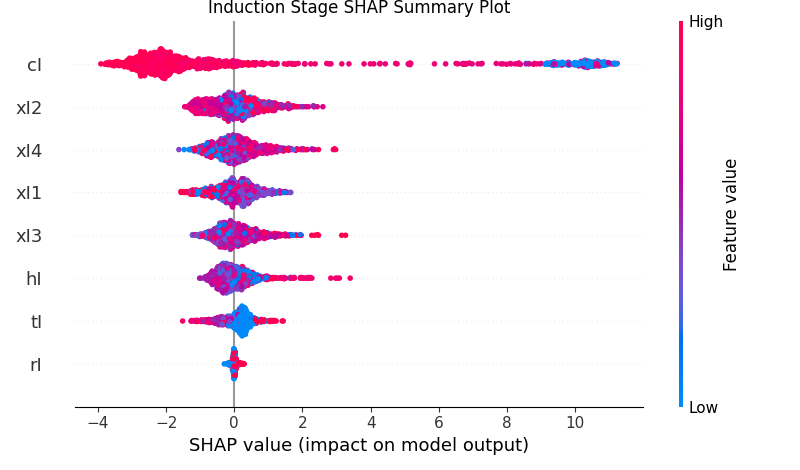
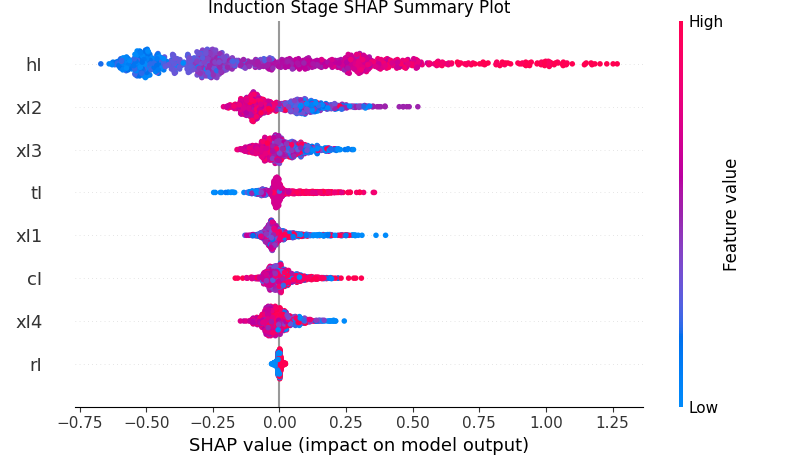
2501060404

diff --git a/Machine-Learning-for-Exposure-Response-Analysis/real_data_E-R_analysis.py b/Machine-Learning-for-Exposure-Response-Analysis/real_data_E-R_analysis.py
@@ -7,13 +7,15 @@ import shap
 import matplotlib.pyplot as plt
 import warnings
 import os
+import optuna
+from sklearn.metrics import accuracy_score
 
 # 경고 메시지 무시
 warnings.filterwarnings(action="ignore", category=UserWarning, module="xgboost")
 
 
 # Weibull 함수 정의
-def weibull_function(cI, scale=3):
+def weibull_function(cI, scale=10):
     return 10 * (cI / scale) ** 2 * np.exp(-((cI / scale) ** 3))
 
 

diff --git a/Machine-Learning-for-Exposure-Response-Analysis/README.md b/Machine-Learning-for-Exposure-Response-Analysis/README.md
@@ -1,0 +1,310 @@
+## Machine Learning for Exposure-Response Analysis:
+
+Methodological Considerations and Confirmation of Their
+Importance via Computational Experimentations
+
+Rashed Harun, Eric Yang, Nastya Kassir, Wenhui Zhang, James Lu
+
+### 요약
+
+- 약물 용량을 결정하는 **노출-반응(E-R) 분석**에 대한 기계 학습(ML) 활용 방법을 제시
+- 데이터에서 편향을 없애고 **정확한 인과 관계**를 도출하기 위한 **좋은 실천 방법**들을 제시함
+  1. **인과 다이어그램**을 사용해 모델에서 어떤 변수를 고려해야 할지 신중하게 결정
+  2. **모델 훈련 데이터**와 **추론 데이터**를 엄격하게 분리해 편향을 피함
+  3. **하이퍼파라미터 튜닝**으로 모델의 신뢰성 향상
+  4. **부트스트랩 샘플링**을 사용해 **추론**의 신뢰 구간을 추정
+- 연구는 시뮬레이션된 데이터셋을 사용하여 이 방법들이 **비선형적**이고 **비단조적**인 E-R 관계에서도 효과적임을 증명함
+
+### 사용되는 기법
+
+- **XGBoost**
+  - **이진 분류** 알고리즘
+  - **유도 모델**, **유지 모델**, **유도에서 유지로의 모델**을 각각 생성하여 **노출-반응 관계**를 분석
+  - 결정 트리
+- **SHAP 분석**
+  - **기계 학습 모델**의 예측에 대한 **설명 가능성**을 높이기 위해 사용되는 기법
+  - **협력적 게임 이론**에 기반하여 변수들이 모델 예측에 미치는 **기여도**를 **정량화**
+  - 각 변수의 **기여도를 측정**하여 예측 결과가 어떻게 이루어졌는지 이해
+- **XGBoost는 예측 모델링을 담당하고, SHAP 분석은 그 예측을 설명 가능하게 만들어줌**
+
+---
+
+### 연구에서 사용하는 주요 변수들의 정의
+
+- **유도 단계 (Induction stage, I)**
+  - **hI**: 건강 상태 (health status)
+  - **xI1, xI2, xI3, xI4**: 공변량 (covariates), 즉 약물 효과에 영향을 미칠 수 있는 변수들
+  - **rI**: 치료 무작위화 변수 (treatment randomization), **rI = 1**이면 활성 치료군, **rI = 0**이면 위약군
+  - **cI**: 유도 단계 시작 시점에서의 교란 변수 (confounding variable)
+  - **tI**: 유도 단계에서의 약물 노출 (drug exposure)
+- **유지 단계 (Maintenance stage, M)**
+  - **hM**: 건강 상태
+  - **xM1, xM2, xM3**: 공변량
+  - **rM**: 치료 무작위화 변수
+  - **cM**: 유지 단계에서의 교란 변수
+  - **tM**: 유지 단계에서의 약물 노출
+- **y1, y2**: 이 변수들은 유도 단계와 유지 단계의 **이진 결과 변수**
+
+### 서론
+
+- 병 -( 유도효과, y1 )→ 나아짐 -( 유지효과, y2 )→ 지속
+- ML의 문제점: 과적합! (AUROC = 1.0)
+  - AUROC: 모델이 양성/음성 얼마나 잘 구분하냐
+    - AUROC = 0.5: 그냥 무작위 예측이랑 동일
+    - AUROC < 0.5: 모델이 오히려 반대로 예측함
+    - 즉, 0.5 < AUROC < 1.0이 적합
+- 해결책 1: **k겹 교차 검증**
+  - 데이터를 **k번** 나누어 훈련 데이터와 검증 데이터를 **교차적으로** 사용하여 모델을 평가
+  - 첫 번째 반복에서 첫 번째 부분을 **검증 데이터**로 사용하고, 나머지 k-1개 부분을 **훈련 데이터**로 사용
+  - 두 번째 반복에서는 두 번째 부분을 **검증 데이터**로 사용하고, 나머지 k-1개 부분을 **훈련 데이터**로 사용
+  - 이 과정을 **k번 반복**합니다. 각 번마다 **검증 데이터**가 바뀌고, **훈련 데이터**는 그에 맞춰 바뀝니다.
+  - **성능 평가**
+    - 각 반복에서 모델의 성능을 평가한 후, **k번의 성능 평가**를 평균 내어 최종 성능을 계산
+    - 이렇게 함으로써 데이터의 **모든 부분**이 검증 데이터로 사용되어 모델의 **일반화 능력**을 평가 가능
+- 해결책 2: **하이퍼파라미터 튜닝**
+
+### **Hyperopt**를 사용해 **XGBoost**라는 모델의 **최고 성능** 찾기!
+
+- **Hyperopt**
+  - **최적화** 도구
+  - 모델의 **하이퍼파라미터**를 **최고로 맞추는** 방법을 찾아줌
+- 예를 들어, **XGBoost**라는 모델에서 **어떤 설정이 가장 좋은지** 찾는 거임
+  - 예: **25번**의 **시도**를 하면서 여러 설정을 시도해보고, 가장 성능이 좋은 설정을 찾는 거임
+- **Hyperopt가 사용하는 기법**
+  - **5-겹 교차 검증 (5-fold cross-validation)**
+  - **25번**의 **시도**
+  - **SHAP 분석**
+
+### **샘플링 방법에 따른 신뢰 구간 차이**
+
+- **샘플링 방법**에 따라 **신뢰 구간**이 다르게 나타날 수 있다.
+- 복원 샘플링은 **tI**와 **cI**에 대한 **95% 신뢰 구간**을 더 정확하게 추정할 수 있다.
+  - **비복원 샘플링**에서 **10:90** 비율로 훈련/테스트 데이터셋을 나눈 결과, **tI**와 **cI**의 **기준 진리**와 매우 차이가 나며, 신뢰 구간이 매우 넓음
+  - **비복원 샘플링**에서 **90:10** 비율로 데이터를 나누었을 때, 신뢰 구간이 지나치게 좁고 비현실적인 결과를 보임
+  - **복원 샘플링**을 사용한 결과가 **기준 진리**에 더 근접했으며, **신뢰 구간**도 더 현실적인 범위에 포함됨
+- 즉, **복원 샘플링**을 써야 함
+
+### **부트스트랩을 이용한 SHAP 값 추정**
+
+- **부트스트랩 샘플링**을 사용하여 **SHAP 값**에 대한 **95% 신뢰 구간**을 추정하면 **불확실성**을 더 정확하게 추정 가능
+  - **부트스트랩 샘플링**: 데이터를 **복원하여 반복적으로 샘플을 뽑는** 방법
+    - 예: 데이터셋 [1, 2, 3, 4, 5] → 부트스트랩 샘플링 예시 [3, 1, 5, 5, 2]
+- **부트스트랩 의존도 플롯**은 **설명 변수**와 **반응 변수** 간의 **비선형적 함수적 관계**를 시각적으로 보여줌
+  - 각각의 **SHAP 값**에 대한 **신뢰 구간**도 함께 표현됨
+- **XGBoost 모델**은 **비선형 E-R 관계**와 **교란 관계**를 잘 추정 가능 → **정확한 예측**
+- **유도 모델**과 **유지 모델**에서의 **SHAP 의존도 플롯 → 불확실성** 측정 가능
+
+### ML 모델의 장점과 한계
+
+- **비선형 관계**가 있을 때 매우 잘 작동
+- **E-R 분석**에 **ML 모델**과 **SHAP 값**을 사용하는 방법은 아직 초기 단계 (잠재적 문제점 우려)
+  - **SHAP 분석**은 **out-of-sample 데이터**에서만 수행해야 함
+  - **하이퍼파라미터 튜닝**을 통해 **모델 신뢰성**을 확인해야 함
+  - **신뢰 구간**을 **복원 샘플링**을 통해 **현실적으로 추정**해야 함
+
+---
+
+## Machine Learning for Exposure-Response Analysis:
+
+Methodological Considerations and Confirmation of Their
+Importance via Computational Experimentations (Appendix 정리/요약)
+
+### 부록: 각 파트의 핵심 목적
+
+- **부록 A1**: 데이터 생성 과정을 설명 (실험의 신뢰성에 대한 설명)
+- **부록 A2~A4**: 변수 정의 및 마진 효과 계산 방법을 통해 모델 성능을 검증하는 방법
+
+### 참고: 연구에서 사용하는 주요 변수들의 정의
+
+- **유도 단계 (Induction stage, I)**
+  - **hI**: 건강 상태 (health status)
+  - **xI1, xI2, xI3, xI4**: 공변량 (covariates)
+    - 약물 효과에 영향을 미칠 수 있는 변수들
+    - 나이, 성별 등
+  - **rI**: 치료 무작위화 변수 (treatment randomization)
+    - **rI = 1**이면 활성 치료군, **rI = 0**이면 위약군
+  - **cI**: 유도 단계 시작 시점에서의 교란 변수 (confounding variable)
+  - **tI**: 유도 단계에서의 약물 노출 (drug exposure)
+- **유지 단계 (Maintenance stage, M)**
+  - **hM**: 건강 상태
+  - **xM1, xM2, xM3**: 공변량 (위와 마찬가지)
+  - **rM**: 치료 무작위화 변수
+  - **cM**: 유지 단계에서의 교란 변수
+  - **tM**: 유지 단계에서의 약물 노출
+- **y1, y2**: 이 변수들은 유도 단계와 유지 단계의 **이진 결과 변수**
+
+### 부록 A1: 데이터 생성 과정
+
+- **합성 데이터셋**을 어떻게 생성했는지에 대해 설명하고 있습니다.
+  - **합성 데이터:** 실험적인 데이터로, 실제 데이터 대신 모델을 테스트하거나 분석할 때 사용
+
+![image.png](https://prod-files-secure.s3.us-west-2.amazonaws.com/29de5227-9524-4f28-844e-e4af0fbd3348/417108da-17bb-434d-a0bc-a4a6d16ef989/image.png)
+
+- **다변량 정규 분포**에서 샘플링
+  - **무작위 변수들**을 설정하고, 그 후 데이터 변환을 통해 **결과**를 생성
+  - **HI**, **XI1**, **XI2**, **XI3**, **XI4**, **CI**, **CM**, **TI**, **TM** 등은 **무작위 변수**
+- **변수 샘플링**
+  - 각 환자에 대해 **9차원 벡터**가 샘플링
+  - 벡터는 **다변량 정규 분포**에서 생성
+  - 이 과정에서 일부 변수 간의 **상관관계**를 명시적으로 설정 가능
+- **데이터 = 평균 벡터(μ) × 공분산 행렬(Σ)**
+  - 평균 벡터(μ): 각 변수들의 **평균값**
+  - 공분산 행렬(Σ): 변수들 간의 **상관 관계**
+    - XI1과 XI2의 행렬 값이 -0.1 → 두 변수는 서로 약간의 부정적 관계
+  - **무작위성**
+    - 데이터를 생성할 때, **평균값 근처에서 무작위로 값을 뽑음**
+    - 예를 들어, XI1의 평균값이 5라고 할 때, **샘플링된 값**은 4.8, 5.1, 5.3처럼 **조금씩 다른 값**이 나옴
+    - 이때, 상관관계 때문에 XI2 값도 함께 영향을 받음
+      - 예: XI1이 5.3으로 커지면, XI2는 약간 작아지는 값을 무작위로 뽑게 됨
+
+### 부록 A2: 유도 단계의 정의
+
+- **환자 데이터**를 생성하는 과정에서, **각 변수**가 어떻게 정의되는지 설명
+  - **hI**: 건강 상태 (health status)
+  - **xI1, xI2, xI3, xI4**: 공변량 (covariates), 즉 약물 효과에 영향을 미칠 수 있는 변수들
+    - 예: **나이, 성별** 등
+    - 이때, **xI = ln(XI)**와 \***\*같이 **로그\*\* 값 사용
+      - 로그 변환 하는 이유
+        - 대부분 **작은 값**에 몰려 있고, 몇몇 값은 **매우 큰 값**을 가질 때, 데이터가 **비대칭적**일 수 있으므로 **왜곡된 분포**를 더 **대칭적**으로 바꾸기 위함
+  - **cI**: 유도 단계 시작 시점에서의 교란 변수 (confounding variable)
+    - **cI**도 마찬가지로 **ln(CI)**로 **로그** 값 사용
+  - **rI**: 치료 무작위화 변수 (treatment randomization)
+    - **rI = 1**이면 활성 치료군, **rI = 0**이면 위약군
+    - **rI = Bernoulli(0.5)**
+      - **50% 확률**로 **치료군**과 **위약군**에 **랜덤으로 배정**된다는 뜻
+  - **tI**: 유도 단계에서의 약물 노출 (drug exposure)
+    - **tI**도 마찬가지로 **ln(TI)**로 **로그** 값 사용
+- **유도 단계**에서 **y1**(0 or 1)은 어떻게 계산될까?
+  - y1의 값은 잠재 변수 **hM**에 의해 결정
+  - **hM**은 유도 단계 종료 시 환자의 **건강 상태**를 나타냄
+  - **Sigmoid 함수**
+    $$
+    \sigma(x) = \frac{1}{1 + e^{-x}}
+    $$
+    - **hM** 값을 **긍정적인 결과의 확률**로 변환 → **환자가 긍정적인 결과를 얻을 확률**을 계산
+- **Weibull 함수**
+  $$
+  W(x) = 10 \left( \frac{x}{3} \right)^2 e^{-\left( \frac{x}{3} \right)^3}
+  $$
+  - **x**는 **cI** 값이 들어갈 자리
+  - 교란 변수 **cI**가 건강 상태 **hM**에 미치는 **비선형적 영향**을 나타내는 데 사용되는 함수
+    - **Weibull 분포**는 **비선형적 관계**를 잘 표현 가능
+    - **변수**가 일정 범위 내에서는 빠르게 변하다가, **다른 범위**에서는 **변화가 점차 감소**하는 형태를 모델링하기 적합
+- **Hill 함수**
+  $$
+  Hill(x) = \frac{E_{max}}{1 + \left( \frac{2}{x} \right)^2}
+  $$
+  - **E_max**는 **최대 반응값**을 나타내며, 여기서는 3으로 설정됨
+  - **x**는 **약물 노출(tI)**
+  - **Hill 계수**는 **반응의 경사도**를 결정
+    - 여기서는 2로 설정되어 **약물 농도가 증가할수록 반응이 더 급격하게 증가**하도록 만듦
+      - **k_m** = 2는 반응이 절반에 도달하는 약물 농도를 나타냄
+        - 이 값은 x 값에 대한 포화가 시작되는 지점을 설정함
+- **유도 단계**에서 **종속 변수**는 어떻게 정의될까?
+  - 주어진 **hM** 값에 따라 환자의 **y1**이 결정되는 과정
+  - **hM의 정의**
+    $$
+    hM := hI + W(cI) + Hill(tI | Emax = 3) - 1
+    $$
+    - **hI**: **초기 건강 상태**로, 유도 단계 이전에 설정된 값
+    - **W(cI)**: **Weibull 함수**를 통해 정의된 **cI**(교란 변수)가 **hM**에 미치는 비선형적 영향을 나타냄
+    - **Hill(tI∣Emax=3)**: **약물 노출 tI**가 **hM**에 미치는 **포화 효과**를 나타내는 **Hill 함수**
+      - **E_max**는 최대 반응값 (여기서는 3으로 설정됨)
+    - 마지막에 **1**을 빼는 이유는 **건강 상태의 지속적인 저하**를 나타냄
+      - 이는 시간이 지남에 따라 **환자의 건강 상태가 나빠지는** 경향을 반영
+  - **y1의 정의**
+    $$
+    y1 := \text{Bernoulli}(\sigma(hM))
+    $$
+    - **y1:** 환자가 유도 단계에서 **긍정적인 결과를 얻었는지 여부** (**0 or 1**)
+    - **Bernoulli** 함수는 **σ(hM)** 확률을 기반으로 하여, **hM** 값에 따라 **긍정적인 결과**(1) 또는 **부정적인 결과**(0)를 생성
+    - **σ(hM)**는 **Sigmoid 함수**를 통해 **hM** 값을 **확률**로 변환
+      - 이 확률 값은 **환자가 긍정적인 결과를 얻을 확률**을 의미
+
+### 부록 A3: 유지 단계에서의 정의
+
+- **유지 단계**에서 사용되는 **데이터셋**의 생성 과정과 **변수 정의**에 대해 설명
+  - 유지 단계는 **유도 단계에서 치료를 받은 환자들**에 대해서만 데이터를 생성
+    - 이 연구에서는 943명
+- **주요 변수들의 정의**
+
+  - **건강 상태 (hM)**
+    - **유도 단계에서의 건강 상태**가 그대로 **유지 단계의 시작 상태**
+  - **xM1, xM2, xM3**
+
+    - **유도 단계 변수 xI1, xI2, xI3**와 동일하지만, 여기에 **가우시안 잡음**(평균 0, 표준편차 0.01)을 추가하여 생성
+
+      - 데이터에 **약간의 무작위성을 추가**하여 현실적인 변화를 모방하기 위함
+        $$
+        xM1 := xI1 + N(0, 0.01)\\
+        xM2 := xI2 + N(0, 0.01)\\
+        xM3 := xI3 + N(0, 0.01)
+        $$
+
+      $$
+
+  - **cM, rM, tM**
+    - **유도 단계의 변수**들인 **cI, rI, tI**와 비슷하게 정의
+      - **cM**은 **유도 단계의 교란 변수 cI**와 비슷한 방식으로 설정
+      - **rM**은 치료군(1)과 위약군(0)을 정의하는 **Bernoulli 분포**와 비슷한 방식으로 설정
+      - **tM**은 **유도 단계의 약물 노출 변수 tI**와 유사하게 설정
+        $$
+        cM := \ln(CM)\\rM := \text{Bernoulli}(0.5)
+        \\tM := \begin{cases}
+        \ln(TM), & rM = 1 \\
+        0, & \text{otherwise}
+        \end{cases}
+        $$
+
+- **hF**와 **y2**의 수식적 표현
+  - 두 변수의 정의
+    - **hF**: 유지 단계에서의 건강 상태
+    - **y2**: 유지 단계에서 환자가 긍정적인 결과(예: 치료 효과)를 얻었는지 여부를 나타내는 이진 변수 (0 or 1)
+  - **hF**의 수식적 표현
+    $$
+    hF := hM + W(cM) + Hill(tM | Emax = 2) - 1
+    $$
+    - **유도 단계에서의 건강 상태**와 동일하게 설정
+  - **y2**의 수식적 표현
+    $$
+    y2 := \text{Bernoulli}(\sigma(hF))
+    $$
+    - **유도 단계에서의 y1**과 동일하게 설정
+
+### 부록 A4: 설명 변수의 마진 효과
+
+- **기댓값을 기준으로 한 마진 효과**를 정의하고, 이를 구하는 방법을 설명함
+- **마진 효과**
+  - **어떤 변수의 변화가 결과에 미치는 영향**을 나타내는 개념
+  - 하나의 변수가 변화할 때, 최종 결과에 얼마나 영향을 미치는지 나타냄
+  - 예: 편미분, 기울기(계수) 등
+- **인과 다이어그램**
+  - **변수들 간의 의존 관계**를 시각적으로 나타내는 방법
+  - 어떤 변수들이 결과 변수에 영향을 미치는지 이해하고, 분석에 포함하거나 제외해야 할 변수들을 결정할 수 있음
+- 연구에서 사용되는 세 가지 **머신러닝 모델**
+  - **유도 모델**
+    - **유도 단계**의 변수들(xI1, xI2, xI3, xI4, cI)과 **약물 노출**(tI)을 사용하여 **y1**을 예측
+  - **유지 모델**
+    - **유지 단계**의 변수들(xM1, xM2, xM3, cM)과 **약물 노출**(tM)을 사용하여 **y2**를 예측
+  - **유지-유도 모델**
+    - **유도 단계** 변수들과 **약물 노출**(tI)을 사용하여 **y2**(**유지 단계에서의 결과**)를 예측
+- **마진 효과의 계산**
+  - **유도 모델**
+    - 변수 **cI**가 **y1**에 미치는 영향을 **Weibull 함수**를 사용해 계산
+    - 약물 노출 **tI**가 미치는 영향을 **Hill 함수**를 통해 계산
+  - **유지 모델**
+    - 비슷하게 변수들의 마진 효과를 계산
+    - 변수들이 **hM**(유도 단계 종료 시 건강 상태)에 미치는 영향으로 **y2**를 예측
+- **실제 마진 효과**와 **모델이 추정한 마진 효과** 비교하기
+  - **실제 마진 효과**는 **기대값**을 기준으로 계산
+    - **전체 데이터셋에서 변수들의 평균 마진 효과**를 계산한 값
+  - 모델이 추정한 **SHAP 값**
+    - 변수들이 **예상 값**에 대해 얼마나 영향을 미쳤는지를 나타내는 값
+    - 이 값들을 비교하여 모델이 추정한 마진 효과가 **실제 마진 효과**와 얼마나 일치하는지 평가
+  - 변수 **vi의 마진 효과**는 **Δvi**로 정의
+    - 해당 변수에 대한 변화가 결과에 미친 영향을 나타냄
+  - **기대값을 기준으로 한 마진 효과**는 **전체 환자들의 평균 마진 효과**를 빼서 구함
+    $$
+    \phi_{v_i} = \Delta v_i - \frac{1}{N} \sum_{j=1}^{N} \Delta v_j
+    $$
+    - 이 값을 통해 **각 변수의 영향**을 **기대값에 대해 상대적으로 계산**할 수 있음
